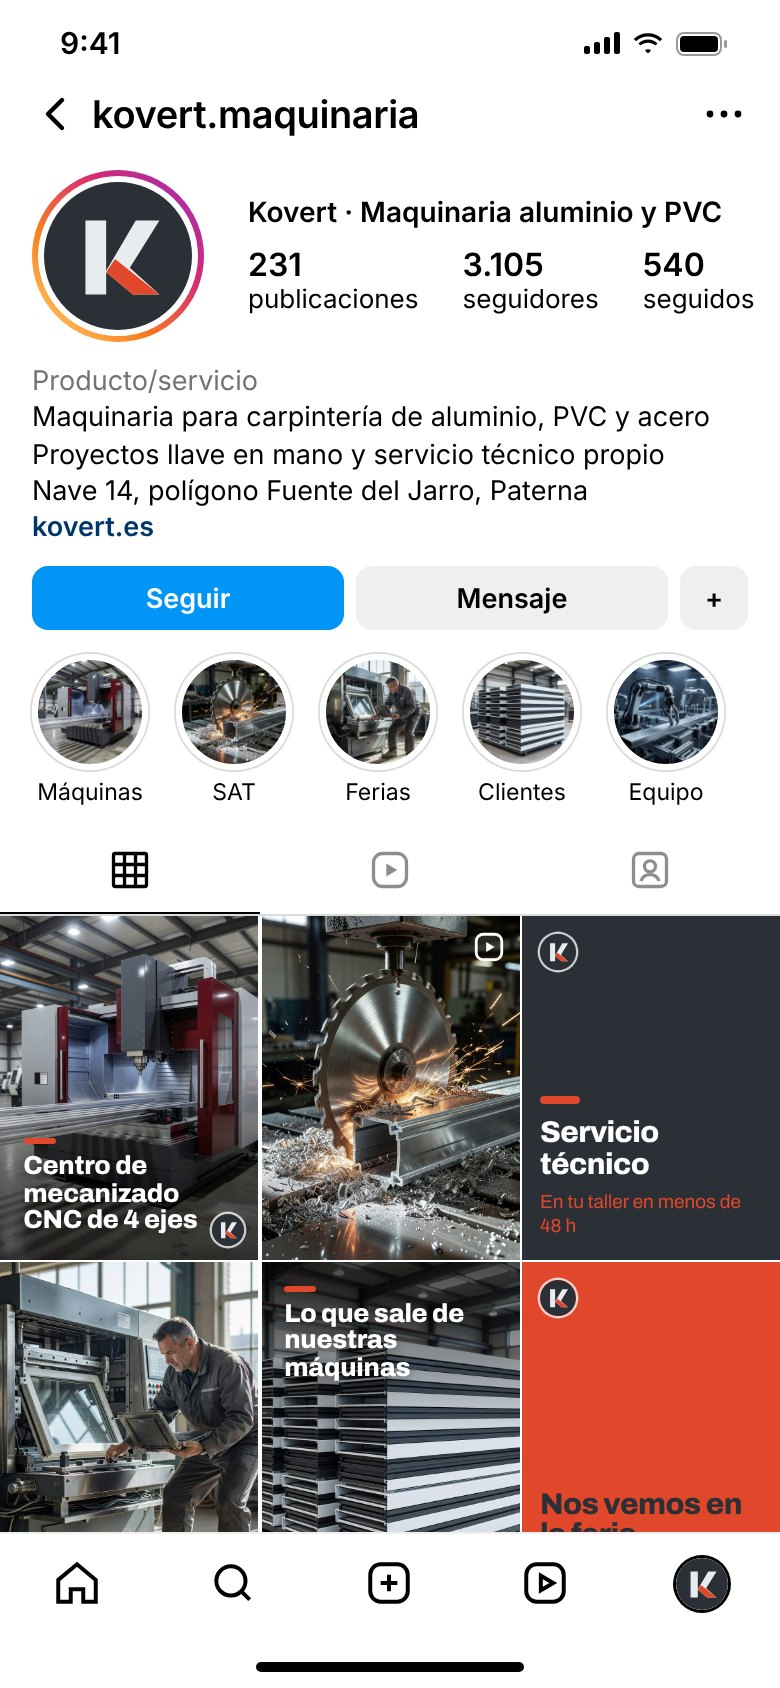
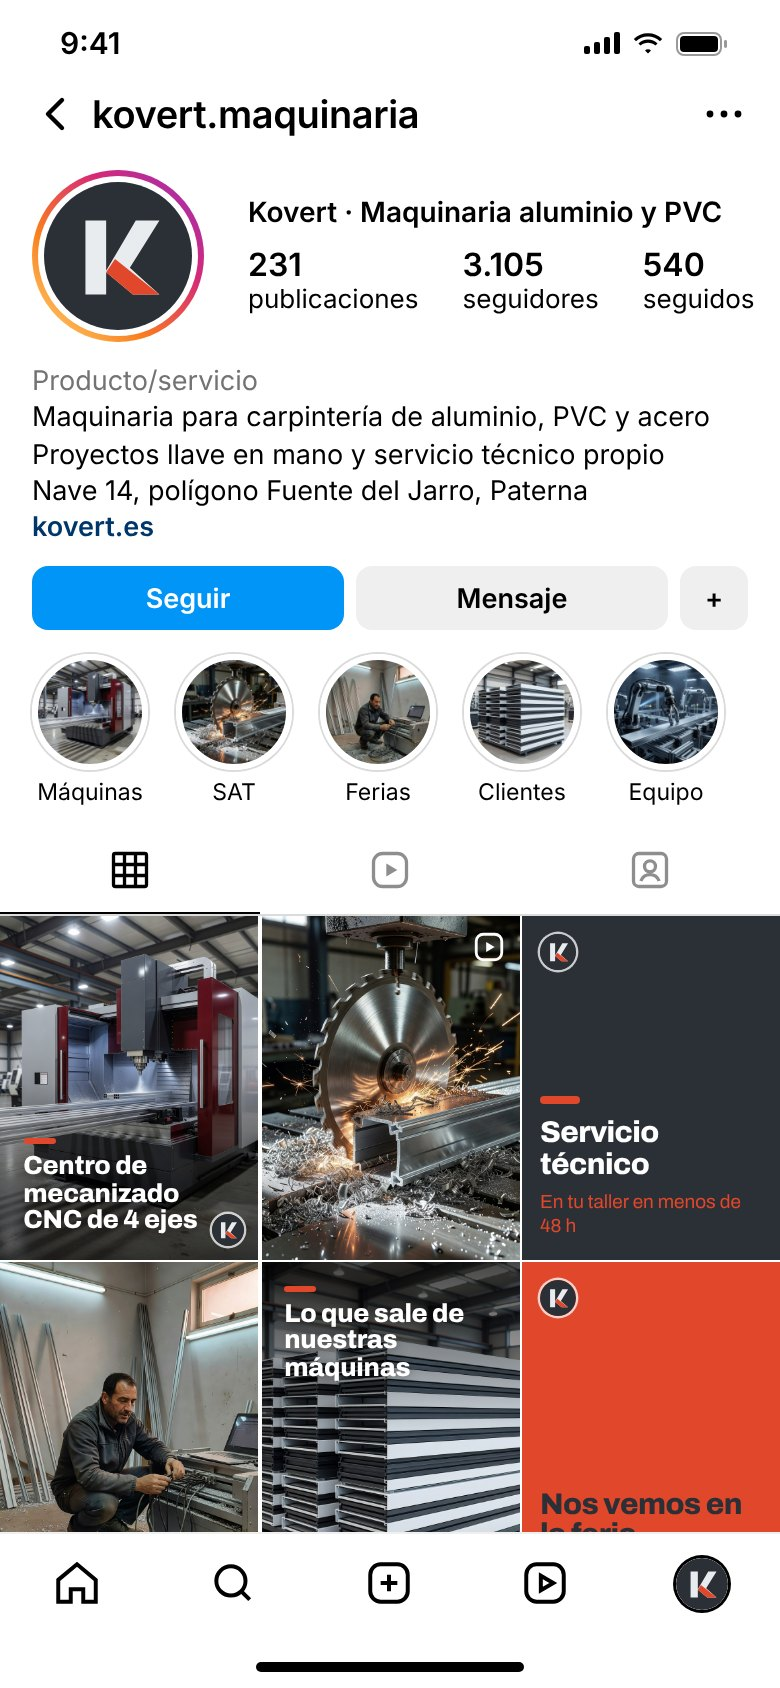
gen-o: fotos de personas más realistas en los perfiles de ejemplo
Claude-Session: https://claude.ai/code/session_01GzdQ3RYke6gHzhkWUUZSNy

Changed region(s): [[0.0, 0.7393, 0.3385, 0.9242], [0.4, 0.3697, 0.5538, 0.4621]]

diff --git a/gen-o/index.html b/gen-o/index.html
@@ -423,27 +423,27 @@ footer .logo{color:#F4F1EC;font-size:24px}
     </div>
 
     <div class="ex-item">
-      <div class="phone"><div class="screen"><img src="/assets/casos/ejemplo-lumar.jpg?v=1" alt="Ejemplo de perfil de Instagram: Lumar, piscinas y jardines" loading="lazy"></div></div>
+      <div class="phone"><div class="screen"><img src="/assets/casos/ejemplo-lumar.jpg?v=2" alt="Ejemplo de perfil de Instagram: Lumar, piscinas y jardines" loading="lazy"></div></div>
       <div class="ex-cap"><div><b>Lumar</b><span>Piscinas y jardines</span></div><span class="tag-k ej">Ejemplo</span></div>
     </div>
 
     <div class="ex-item">
-      <div class="phone"><div class="screen"><img src="/assets/casos/ejemplo-voltexa.jpg?v=1" alt="Ejemplo de perfil de Instagram: Voltexa, material eléctrico" loading="lazy"></div></div>
+      <div class="phone"><div class="screen"><img src="/assets/casos/ejemplo-voltexa.jpg?v=2" alt="Ejemplo de perfil de Instagram: Voltexa, material eléctrico" loading="lazy"></div></div>
       <div class="ex-cap"><div><b>Voltexa</b><span>Material eléctrico</span></div><span class="tag-k ej">Ejemplo</span></div>
     </div>
 
     <div class="ex-item">
-      <div class="phone"><div class="screen"><img src="/assets/casos/ejemplo-rodeval.jpg?v=1" alt="Ejemplo de perfil de Instagram: Rodeval, alquiler de vehículos industriales" loading="lazy"></div></div>
+      <div class="phone"><div class="screen"><img src="/assets/casos/ejemplo-rodeval.jpg?v=2" alt="Ejemplo de perfil de Instagram: Rodeval, alquiler de vehículos industriales" loading="lazy"></div></div>
       <div class="ex-cap"><div><b>Rodeval</b><span>Alquiler de vehículos industriales</span></div><span class="tag-k ej">Ejemplo</span></div>
     </div>
 
     <div class="ex-item">
-      <div class="phone"><div class="screen"><img src="/assets/casos/ejemplo-kovert.jpg?v=1" alt="Ejemplo de perfil de Instagram: Kovert, maquinaria para aluminio y PVC" loading="lazy"></div></div>
+      <div class="phone"><div class="screen"><img src="/assets/casos/ejemplo-kovert.jpg?v=2" alt="Ejemplo de perfil de Instagram: Kovert, maquinaria para aluminio y PVC" loading="lazy"></div></div>
       <div class="ex-cap"><div><b>Kovert</b><span>Maquinaria para aluminio y PVC</span></div><span class="tag-k ej">Ejemplo</span></div>
     </div>
 
     <div class="ex-item">
-      <div class="phone"><div class="screen"><img src="/assets/casos/ejemplo-embalia.jpg?v=1" alt="Ejemplo de perfil de Instagram: Embalia, embalaje industrial" loading="lazy"></div></div>
+      <div class="phone"><div class="screen"><img src="/assets/casos/ejemplo-embalia.jpg?v=2" alt="Ejemplo de perfil de Instagram: Embalia, embalaje industrial" loading="lazy"></div></div>
       <div class="ex-cap"><div><b>Embalia</b><span>Embalaje industrial</span></div><span class="tag-k ej">Ejemplo</span></div>
     </div>
 
